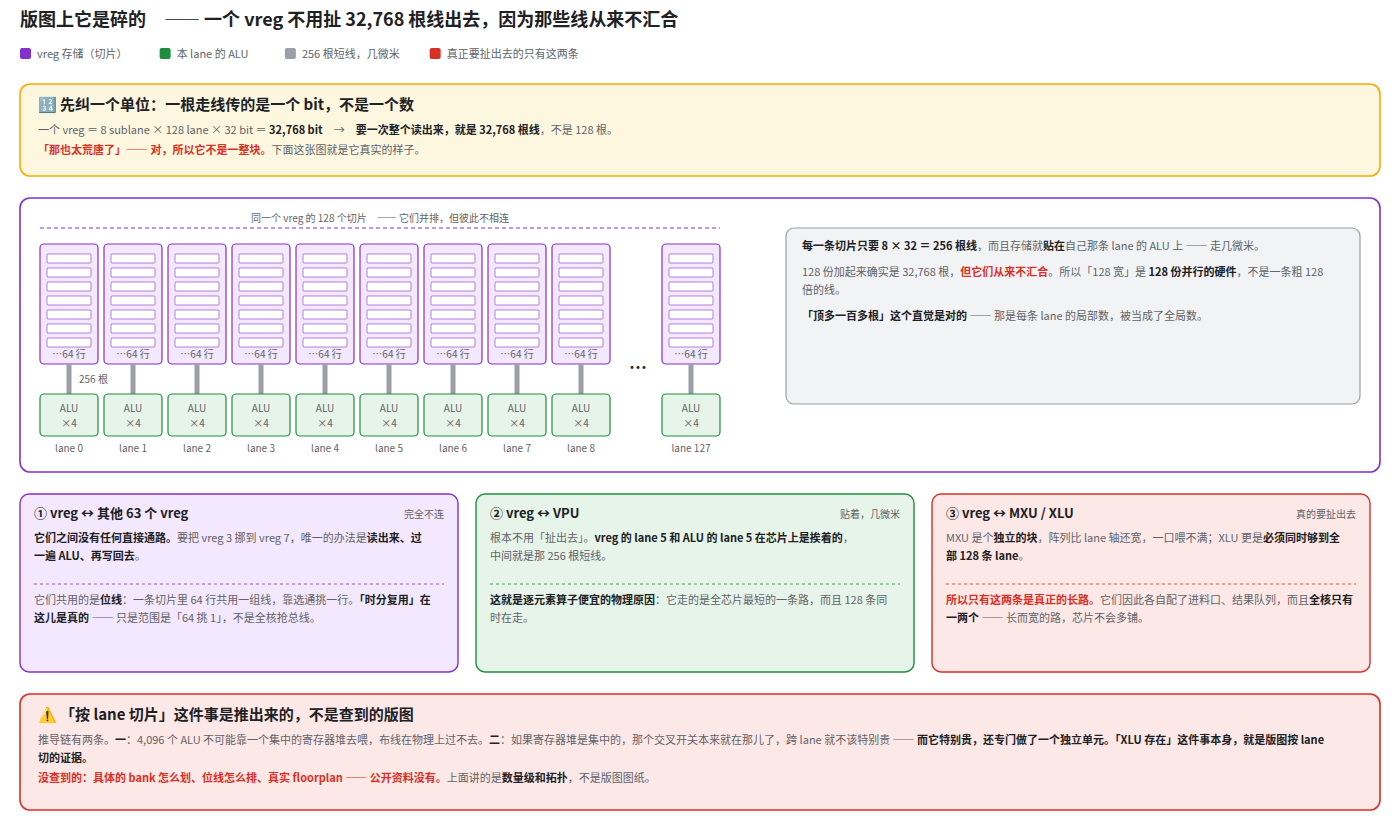
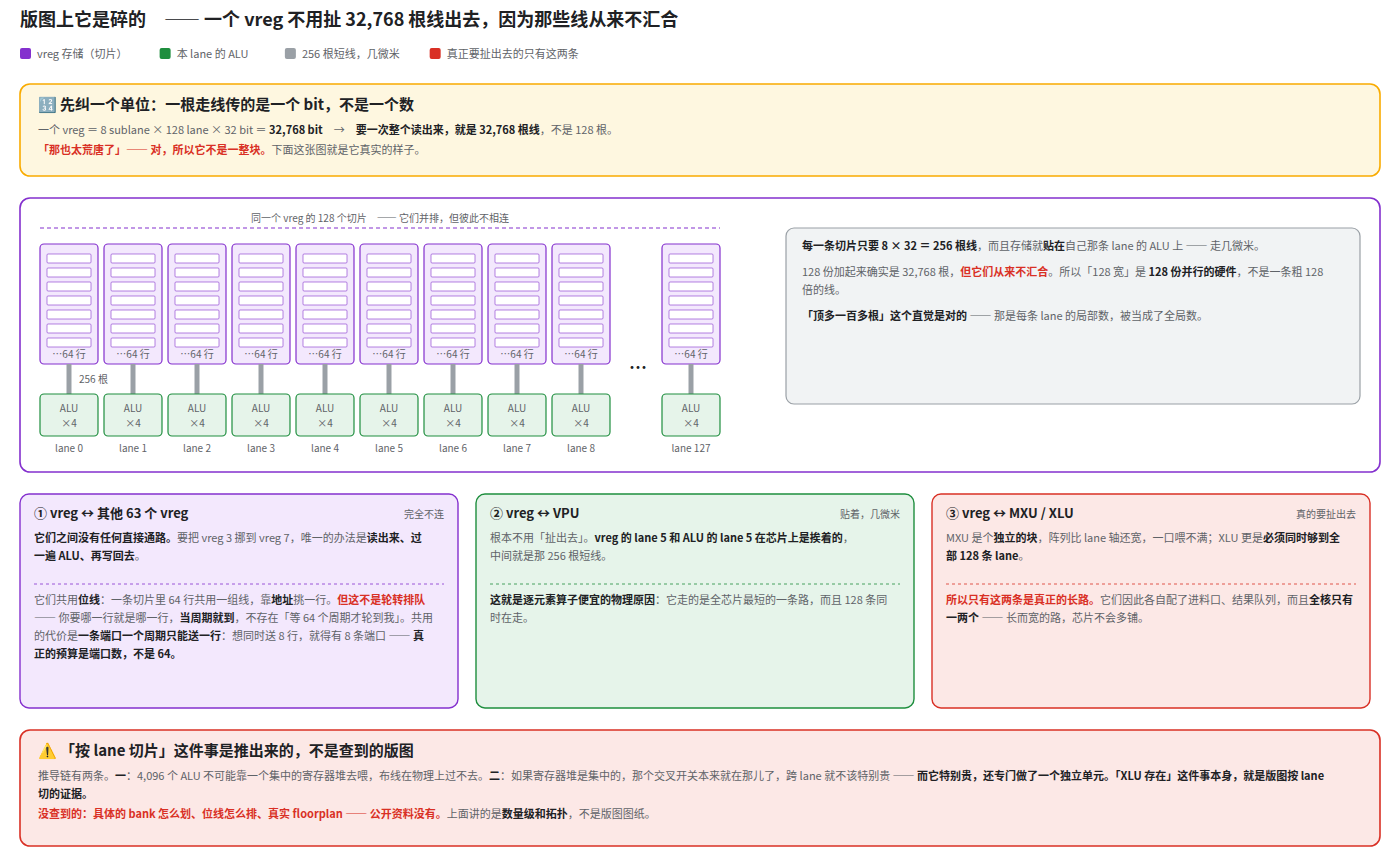
专题二 P-29：收回「时分复用」这个说法 —— 它把人带向轮转排队
上一轮我在卡片①里写「『时分复用』在这儿是真的」，Chris 顺着这个词
推出了一个完全合理的担心：64 个 vreg 共用位线，那岂不是每 64 个周期
才轮到一回？效率不就极低了？而公开资料明明说一个周期就能到 VPU。

担心成立，但前提是我给错的。共用位线不是轮转分时：

- 它是按地址选通。你要哪一行就是哪一行，当周期就到，
  不存在「等 64 个周期才轮到我」。
- 共用的真实代价是：一条端口一个周期只能送一行。
  想同时送 8 行，就得有 8 条端口。
- 所以真正的预算是端口数（P-28 推的约 9 读 7 写），不是 64。

这条正好把 P-28 和 P-29 接上：P-28 说预算是端口数，
P-29 现在解释了为什么共用位线并不改变这个结论。

卡片①与 figcaption 同步改掉，Q_H 178 → 214 容纳新文案。
内部词自检 29 项 0 命中。

Changed region(s): [[0.0, 0.0, 0.9829, 0.7831], [0.0, 0.7831, 0.9829, 0.9639], [0.5529, 0.2711, 0.9521, 0.3916]]

diff --git a/Courses/WebPages/topic-02.html b/Courses/WebPages/topic-02.html
@@ -4193,7 +4193,7 @@ footer a{text-decoration:none}
     这个质疑<b>完全正确</b>，而且顺着它往下走，正好能把前面所有说法收口 ——&nbsp;
     因为答案不是「线真有那么多」，而是<b>那些线根本不需要汇合到一起</b>。</p>
 <figure class="fbox fwide" id="ms-p29">
-<svg viewBox="0 0 1400 830" width="100%" xmlns="http://www.w3.org/2000/svg" role="img" aria-label="TPU 的向量寄存器堆在版图上被切成 128 条，每条紧贴自己那条 lane 的 ALU；跨 lane 才需要真正的长线，所以才有独立的 XLU">
+<svg viewBox="0 0 1400 866" width="100%" xmlns="http://www.w3.org/2000/svg" role="img" aria-label="TPU 的向量寄存器堆在版图上被切成 128 条，每条紧贴自己那条 lane 的 ALU；跨 lane 才需要真正的长线，所以才有独立的 XLU">
 <text x="20" y="26" class="ttl">版图上它是<tspan font-weight="700">碎的</tspan>　—— 一个 vreg 不用扯 32,768 根线出去，因为那些线<tspan font-weight="700">从来不汇合</tspan></text>
 <rect x="20" y="48" width="11" height="11" rx="2" fill="#8430ce"/>
 <text x="37" y="58" class="sm">vreg 存储（切片）</text>
@@ -4357,15 +4357,17 @@ footer a{text-decoration:none}
 <text x="802" y="276" class="xs">128 份加起来确实是 32,768 根，<tspan font-weight="700" fill="#d93025">但它们从来不汇合</tspan>。所以「128 宽」是 <tspan font-weight="700" fill="#202124">128 份并行的硬件</tspan>，不是一条粗 128 </text>
 <text x="802" y="294" class="xs">倍的线。</text>
 <text x="802" y="320" class="xs"><tspan font-weight="700" fill="#202124">「顶多一百多根」这个直觉是对的</tspan> —— 那是每条 lane 的局部数，被当成了全局数。</text>
-<rect x="20" y="494" width="438" height="178" rx="9" fill="#f3e8fd" stroke="#8430ce" stroke-width="1.4"/>
+<rect x="20" y="494" width="438" height="214" rx="9" fill="#f3e8fd" stroke="#8430ce" stroke-width="1.4"/>
 <text x="34" y="518" class="box" fill="#8430ce">① vreg ↔ 其他 63 个 vreg</text>
 <text x="444" y="518" class="xxs" fill="#5f6368" text-anchor="end">完全不连</text>
 <text x="34" y="542" class="xs"><tspan font-weight="700" fill="#202124">它们之间没有任何直接通路。</tspan>要把 vreg 3 挪到 vreg 7，唯一的办法是<tspan font-weight="700" fill="#202124">读出来、过</tspan></text>
 <text x="34" y="560" class="xs"><tspan font-weight="700" fill="#202124">一遍 ALU、再写回去</tspan>。</text>
 <line x1="34" y1="584" x2="444" y2="584" stroke="#8430ce" stroke-width="0.8" stroke-dasharray="3 3"/>
-<text x="34" y="604" class="xs">它们共用的是<tspan font-weight="700" fill="#202124">位线</tspan>：一条切片里 64 行共用一组线，靠选通挑一行。<tspan font-weight="700" fill="#202124">「时分复用」在</tspan></text>
-<text x="34" y="622" class="xs"><tspan font-weight="700" fill="#202124">这儿是真的</tspan> —— 只是范围是「64 挑 1」，不是全核抢总线。</text>
-<rect x="476" y="494" width="438" height="178" rx="9" fill="#e6f4ea" stroke="#1e8e3e" stroke-width="1.4"/>
+<text x="34" y="604" class="xs">它们共用<tspan font-weight="700" fill="#202124">位线</tspan>：一条切片里 64 行共用一组线，靠<tspan font-weight="700" fill="#202124">地址</tspan>挑一行。<tspan font-weight="700" fill="#d93025">但这不是轮转排队</tspan> </text>
+<text x="34" y="622" class="xs">—— 你要哪一行就是哪一行，<tspan font-weight="700" fill="#202124">当周期就到</tspan>，不存在「等 64 个周期才轮到我」。共用</text>
+<text x="34" y="640" class="xs">的代价是<tspan font-weight="700" fill="#202124">一条端口一个周期只能送一行</tspan>：想同时送 8 行，就得有 8 条端口 —— <tspan font-weight="700" fill="#202124">真</tspan></text>
+<text x="34" y="658" class="xs"><tspan font-weight="700" fill="#202124">正的预算是端口数，不是 64。</tspan></text>
+<rect x="476" y="494" width="438" height="214" rx="9" fill="#e6f4ea" stroke="#1e8e3e" stroke-width="1.4"/>
 <text x="490" y="518" class="box" fill="#1e8e3e">② vreg ↔ VPU</text>
 <text x="900" y="518" class="xxs" fill="#5f6368" text-anchor="end">贴着，几微米</text>
 <text x="490" y="542" class="xs">根本不用「扯出去」。<tspan font-weight="700" fill="#202124">vreg 的 lane 5 和 ALU 的 lane 5 在芯片上是挨着的</tspan>，</text>
@@ -4373,7 +4375,7 @@ footer a{text-decoration:none}
 <line x1="490" y1="584" x2="900" y2="584" stroke="#1e8e3e" stroke-width="0.8" stroke-dasharray="3 3"/>
 <text x="490" y="604" class="xs"><tspan font-weight="700" fill="#202124">这就是逐元素算子便宜的物理原因</tspan>：它走的是全芯片最短的一条路，而且 128 条同</text>
 <text x="490" y="622" class="xs">时在走。</text>
-<rect x="932" y="494" width="438" height="178" rx="9" fill="#fce8e6" stroke="#d93025" stroke-width="1.4"/>
+<rect x="932" y="494" width="438" height="214" rx="9" fill="#fce8e6" stroke="#d93025" stroke-width="1.4"/>
 <text x="946" y="518" class="box" fill="#d93025">③ vreg ↔ MXU / XLU</text>
 <text x="1356" y="518" class="xxs" fill="#5f6368" text-anchor="end">真的要扯出去</text>
 <text x="946" y="542" class="xs">MXU 是个<tspan font-weight="700" fill="#202124">独立的块</tspan>，阵列比 lane 轴还宽，一口喂不满；XLU 更是<tspan font-weight="700" fill="#202124">必须同时够到全</tspan></text>
@@ -4381,13 +4383,13 @@ footer a{text-decoration:none}
 <line x1="946" y1="584" x2="1356" y2="584" stroke="#d93025" stroke-width="0.8" stroke-dasharray="3 3"/>
 <text x="946" y="604" class="xs"><tspan font-weight="700" fill="#d93025">所以只有这两条是真正的长路。</tspan>它们因此各自配了进料口、结果队列，而且<tspan font-weight="700" fill="#202124">全核只有</tspan></text>
 <text x="946" y="622" class="xs"><tspan font-weight="700" fill="#202124">一两个</tspan> —— 长而宽的路，芯片不会多铺。</text>
-<rect x="20" y="694" width="1360" height="116" rx="10" fill="#fce8e6" stroke="#d93025" stroke-width="1.6"/>
-<text x="38" y="720" class="sec">⚠ 「按 lane 切片」这件事是推出来的，不是查到的版图</text>
-<text x="38" y="744" class="xs">推导链有两条。<tspan font-weight="700" fill="#202124">一</tspan>：4,096 个 ALU 不可能靠一个集中的寄存器堆去喂，布线在物理上过不去。<tspan font-weight="700" fill="#202124">二</tspan>：如果寄存器堆是集中的，那个交叉开关本来就在那儿了，跨 lane 就不该特别贵 —— <tspan font-weight="700" fill="#202124">而它特别贵，还专门做了一个独立单元。「XLU 存在」这件事本身，就是版图按 lane </tspan></text>
-<text x="38" y="762" class="xs"><tspan font-weight="700" fill="#202124">切的证据。</tspan></text>
-<text x="38" y="782" class="xs"><tspan font-weight="700" fill="#d93025">没查到的：具体的 bank 怎么划、位线怎么排、真实 floorplan —— 公开资料没有。</tspan>上面讲的是<tspan font-weight="700" fill="#202124">数量级和拓扑</tspan>，不是版图图纸。</text>
+<rect x="20" y="730" width="1360" height="116" rx="10" fill="#fce8e6" stroke="#d93025" stroke-width="1.6"/>
+<text x="38" y="756" class="sec">⚠ 「按 lane 切片」这件事是推出来的，不是查到的版图</text>
+<text x="38" y="780" class="xs">推导链有两条。<tspan font-weight="700" fill="#202124">一</tspan>：4,096 个 ALU 不可能靠一个集中的寄存器堆去喂，布线在物理上过不去。<tspan font-weight="700" fill="#202124">二</tspan>：如果寄存器堆是集中的，那个交叉开关本来就在那儿了，跨 lane 就不该特别贵 —— <tspan font-weight="700" fill="#202124">而它特别贵，还专门做了一个独立单元。「XLU 存在」这件事本身，就是版图按 lane </tspan></text>
+<text x="38" y="798" class="xs"><tspan font-weight="700" fill="#202124">切的证据。</tspan></text>
+<text x="38" y="818" class="xs"><tspan font-weight="700" fill="#d93025">没查到的：具体的 bank 怎么划、位线怎么排、真实 floorplan —— 公开资料没有。</tspan>上面讲的是<tspan font-weight="700" fill="#202124">数量级和拓扑</tspan>，不是版图图纸。</text>
 </svg>
-<figcaption>P-28 说「每条端口本身就是 128 宽」，最较真的追问紧接着就来：<b>一个 vreg 才 4 KB，它怎么可能扯出去那么多根线？</b>这个质疑<b>完全正确</b> —— 而且答案不是「线真有那么多」，是<b>「它们根本不需要汇合」</b>。先纠单位：一根走线传<b>一个 bit</b>，所以一个 vreg 是 8 × 128 × 32 ＝ <b>32,768 根</b>，不是 128 根。荒唐 → 所以它不是一整块：<b>整条数据通路按 lane 切成 128 份，存储就贴在自己那条 lane 的 ALU 旁边</b>，每份只要 <b>256 根线、走几微米</b>。于是三个问题一次答完：<b>64 个 vreg 之间完全不连</b>（只共用位线，「64 挑 1」那一层的时分复用是真的）；<b>到 VPU 是贴着的</b>；<b>只有 MXU 和 XLU 才真的要扯长线</b> —— 这也正是它们要队列、要共享的原因。⚠ 红带那条必须念：<b>「按 lane 切片」是推的，不是查到的版图</b>，具体 bank 划分与 floorplan 公开资料没有。</figcaption>
+<figcaption>P-28 说「每条端口本身就是 128 宽」，最较真的追问紧接着就来：<b>一个 vreg 才 4 KB，它怎么可能扯出去那么多根线？</b>这个质疑<b>完全正确</b> —— 而且答案不是「线真有那么多」，是<b>「它们根本不需要汇合」</b>。先纠单位：一根走线传<b>一个 bit</b>，所以一个 vreg 是 8 × 128 × 32 ＝ <b>32,768 根</b>，不是 128 根。荒唐 → 所以它不是一整块：<b>整条数据通路按 lane 切成 128 份，存储就贴在自己那条 lane 的 ALU 旁边</b>，每份只要 <b>256 根线、走几微米</b>。于是三个问题一次答完：<b>64 个 vreg 之间完全不连</b>（只共用位线，而且是<b>按地址选通、当周期就到</b>，<b>不是轮转排队</b> —— 共用的代价是「一条端口一周期只送一行」，不是「等 64 个周期」）；<b>到 VPU 是贴着的</b>；<b>只有 MXU 和 XLU 才真的要扯长线</b> —— 这也正是它们要队列、要共享的原因。⚠ 红带那条必须念：<b>「按 lane 切片」是推的，不是查到的版图</b>，具体 bank 划分与 floorplan 公开资料没有。</figcaption>
 </figure>
 
   <h3>3.3　并行层级：哪几层是运行时才定的</h3>

diff --git a/Courses/tools/topic02-port-microscope.py b/Courses/tools/topic02-port-microscope.py
@@ -201,7 +201,7 @@ CAP = {
 
 "p25": "两栏回答的是<b>同一个问题</b>：发送方手里那张单子上写着什么。一边写<b>对方的内存地址</b>（但那块内存必须先被对方注册过），一边写<b>哪颗芯片＋哪个段＋偏移</b>（段的物理基址握在接收方手里）—— 而<b>落到底下那句话是逐字相同的</b>。⚠ 左右证据等级不同：RDMA 是公开语义，ICI 这半<b>未标注来源</b>。",
 "p26": "整张图就一件事：<b>同一个寄存器、同一批数，换个方向，代价完全不同</b>。绿的那一列是<b>纵向</b> —— 8 → 4 → 2 → 1，三步，全程没离开自己那套 ALU；红的那一行是<b>横向</b> —— 128 条 lane 各是一套硬件，数要横着走只能交给 <b>XLU</b>，而且往往还得绕一趟 VMEM。<b>黄带才是这张图真正要落的地方</b>：<code>softmax</code> 和 <code>RMSNorm</code> 都沿最后一维求和，而最后一维默认就铺在 lane 方向上 —— <b>最常做的那两个归约，恰好都撞在最贵的方向</b>。⚠ 底带那条不能跳过：<b>「列与列之间没有直连通路」是我给的解释，不是查到的</b>。",
-"p29": "P-28 说「每条端口本身就是 128 宽」，最较真的追问紧接着就来：<b>一个 vreg 才 4 KB，它怎么可能扯出去那么多根线？</b>这个质疑<b>完全正确</b> —— 而且答案不是「线真有那么多」，是<b>「它们根本不需要汇合」</b>。先纠单位：一根走线传<b>一个 bit</b>，所以一个 vreg 是 8 × 128 × 32 ＝ <b>32,768 根</b>，不是 128 根。荒唐 → 所以它不是一整块：<b>整条数据通路按 lane 切成 128 份，存储就贴在自己那条 lane 的 ALU 旁边</b>，每份只要 <b>256 根线、走几微米</b>。于是三个问题一次答完：<b>64 个 vreg 之间完全不连</b>（只共用位线，「64 挑 1」那一层的时分复用是真的）；<b>到 VPU 是贴着的</b>；<b>只有 MXU 和 XLU 才真的要扯长线</b> —— 这也正是它们要队列、要共享的原因。⚠ 红带那条必须念：<b>「按 lane 切片」是推的，不是查到的版图</b>，具体 bank 划分与 floorplan 公开资料没有。",
+"p29": "P-28 说「每条端口本身就是 128 宽」，最较真的追问紧接着就来：<b>一个 vreg 才 4 KB，它怎么可能扯出去那么多根线？</b>这个质疑<b>完全正确</b> —— 而且答案不是「线真有那么多」，是<b>「它们根本不需要汇合」</b>。先纠单位：一根走线传<b>一个 bit</b>，所以一个 vreg 是 8 × 128 × 32 ＝ <b>32,768 根</b>，不是 128 根。荒唐 → 所以它不是一整块：<b>整条数据通路按 lane 切成 128 份，存储就贴在自己那条 lane 的 ALU 旁边</b>，每份只要 <b>256 根线、走几微米</b>。于是三个问题一次答完：<b>64 个 vreg 之间完全不连</b>（只共用位线，而且是<b>按地址选通、当周期就到</b>，<b>不是轮转排队</b> —— 共用的代价是「一条端口一周期只送一行」，不是「等 64 个周期」）；<b>到 VPU 是贴着的</b>；<b>只有 MXU 和 XLU 才真的要扯长线</b> —— 这也正是它们要队列、要共享的原因。⚠ 红带那条必须念：<b>「按 lane 切片」是推的，不是查到的版图</b>，具体 bank 划分与 floorplan 公开资料没有。",
 "p28": "上一张图说「各开一个门」，紧接着最自然的追问是：那不就是 128 条车道大家串在一起、时分复用吗？<b>一半对，一半错，而错的那一半最要紧</b>：争用确实有，但争的不是一条共享总线，是<b>端口和发射位</b> —— <b>128 是每条通路的宽度，不是要分给大家的份额</b>。四张卡把四个单元的接法摊开对比，机关在「要不要队列」那一栏：<b>三个都要，理由两两不同</b>（超越函数是因为慢，XLU 是因为共享，MXU 是因为一口喂不满）。落点那条最值得记：<b>撞车不是被解决的，是被编译期提前排掉、根本没机会发生</b> —— GPU 靠运行时记分板现场决定，这正是全课那条分水岭。⚠ 端口那个「约 9 读 7 写」<b>是推的不是原话</b>，图上写了推导链。",
 "p27": "上一张图留了个问题：这些部件到底怎么连。<b>答案是中间那个盒子只有一个</b> —— VPU、MXU、XLU 取的是<b>同一批 vreg</b>，各开一个门；既不是各有各的寄存器，也不是挂总线抢带宽。于是「横着走贵」有了更准的说法：<b>贵在要把整个 vreg 交出去、绕一趟、再收回来</b>，不是缺一根线。<b>蓝带那组换算是这门课最该记的一句</b>：一个 ALU ≈ 一个 CUDA core，一条 lane ≈ 一个 warp scheduler ——&nbsp;两边差的从来不是有没有这些部件，是<b>谁在运行时挑活</b>。⚠ 图里的数<b>书里标的是 v5p</b>（v4 只有 32 个 vreg），别当 v7 规格表用。",
 "p24": "中间那个提问框是全课的骨架，右格四句是唯一能带出门、换成别的两块硬件照样用的东西。<b>⚠ 底带那三条限定一条都不能省</b> —— 落点那句单独出门，就只是一个立场。",

diff --git a/Courses/tools/t02-figs/fig_p29_slices.py b/Courses/tools/t02-figs/fig_p29_slices.py
@@ -26,7 +26,7 @@ W = 1400
 
 CNT_Y, CNT_H = 84, 92           # ① 先把线数算出来
 SLC_Y, SLC_H = CNT_Y + CNT_H + 22, 274   # ② 主图：128 条切片
-Q_Y, Q_H = SLC_Y + SLC_H + 22, 178       # ③ 三个问题的答案
+Q_Y, Q_H = SLC_Y + SLC_H + 22, 214       # ③ 三个问题的答案
 BND_Y, BND_H = Q_Y + Q_H + 22, 116       # ④ 边界：哪些是推的
 H = BND_Y + BND_H + 20
 
@@ -125,8 +125,11 @@ QA = [
     (PU, "① vreg ↔ 其他 63 个 vreg", "完全不连",
      "<b>它们之间没有任何直接通路。</b>要把 vreg 3 挪到 vreg 7，"
      "唯一的办法是<b>读出来、过一遍 ALU、再写回去</b>。",
-     "它们共用的是<b>位线</b>：一条切片里 64 行共用一组线，靠选通挑一行。"
-     "<b>「时分复用」在这儿是真的</b> —— 只是范围是「64 挑 1」，不是全核抢总线。"),
+     "它们共用<b>位线</b>：一条切片里 64 行共用一组线，靠<b>地址</b>挑一行。"
+     "<r>但这不是轮转排队</r> —— 你要哪一行就是哪一行，<b>当周期就到</b>，"
+     "不存在「等 64 个周期才轮到我」。共用的代价是"
+     "<b>一条端口一个周期只能送一行</b>：想同时送 8 行，就得有 8 条端口 —— "
+     "<b>真正的预算是端口数，不是 64。</b>"),
     (GN, "② vreg ↔ VPU", "贴着，几微米",
      "根本不用「扯出去」。<b>vreg 的 lane 5 和 ALU 的 lane 5 在芯片上是挨着的</b>，"
      "中间就是那 256 根短线。",
